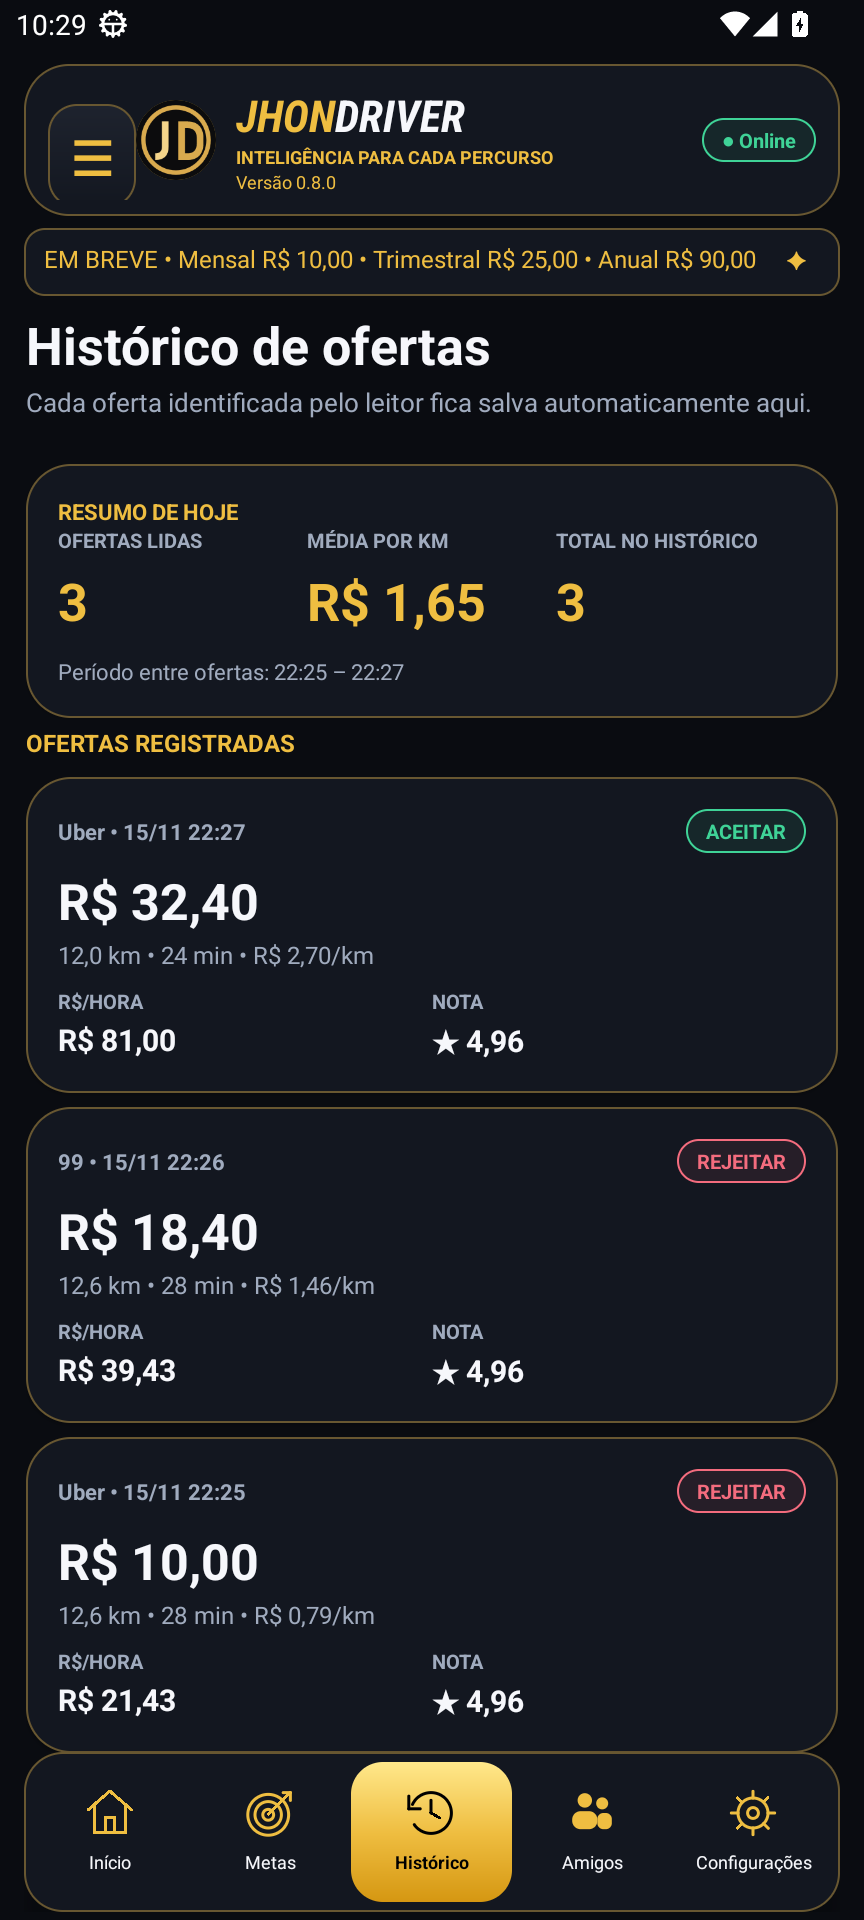
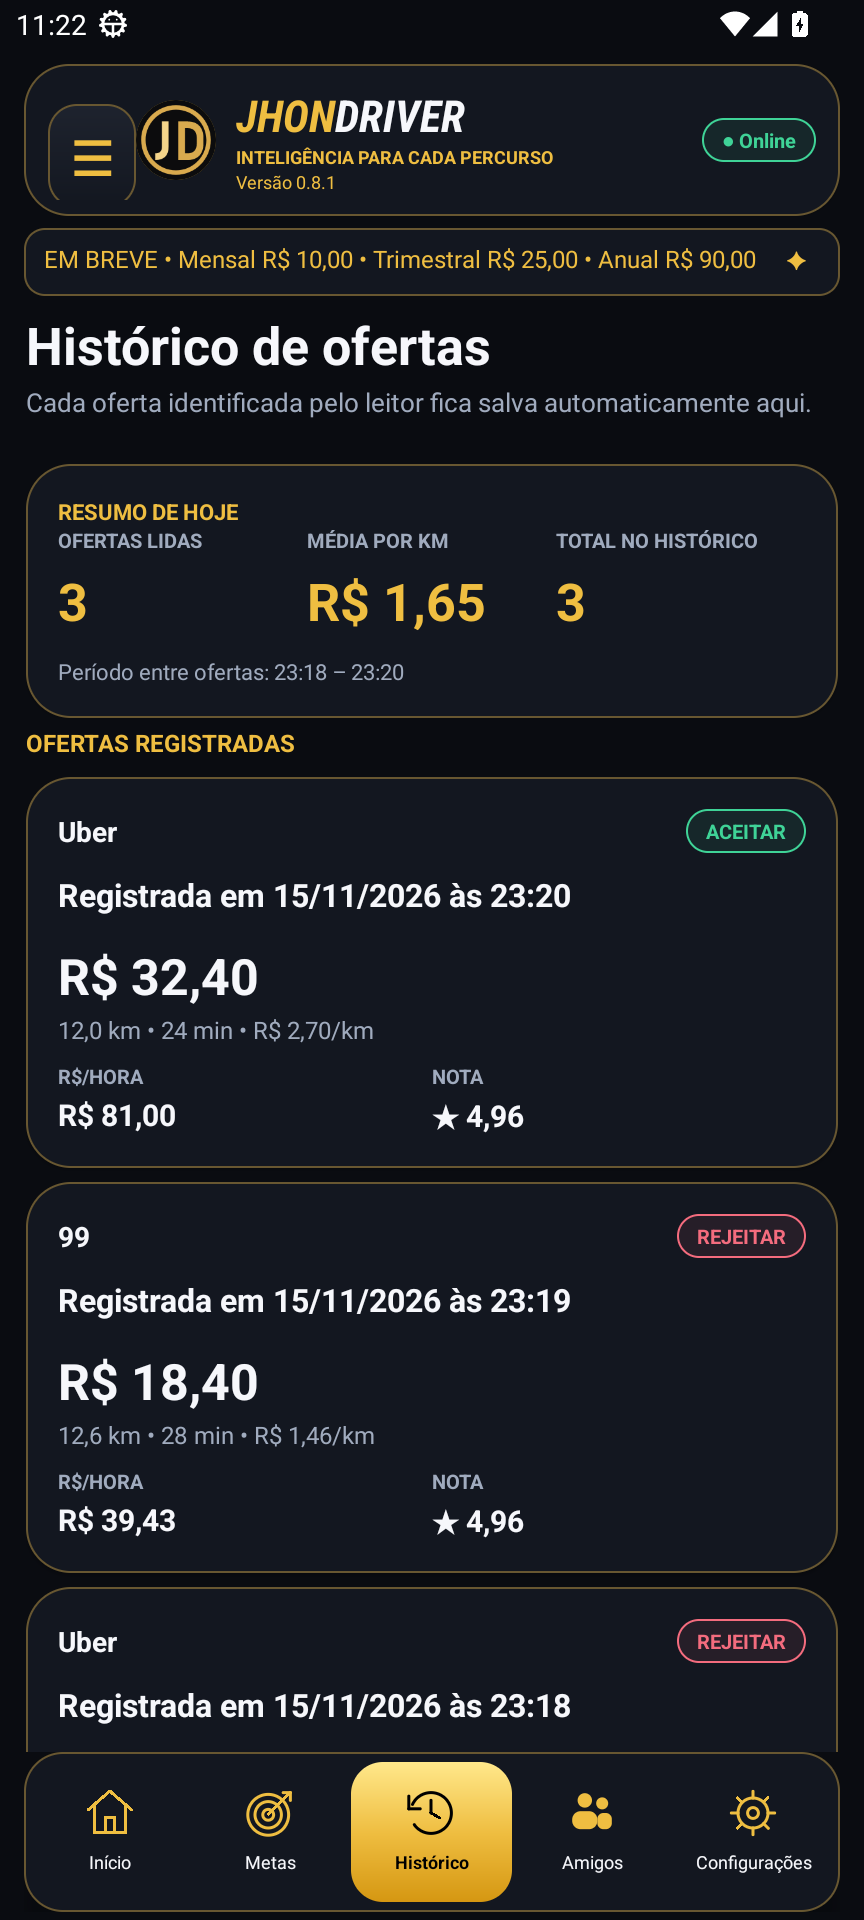
Show released history timestamp layout in the gallery

diff --git a/docs/previews/unified/README.md b/docs/previews/unified/README.md
@@ -24,6 +24,8 @@ O acabamento da tela de Amigos foi estendido ao painel, configurações, histór
 
 ## Histórico de ofertas
 
+Atualizado na versão **0.8.1**: data completa e horário de registro em destaque, incluindo ofertas antigas com horário salvo.
+
 | Claro | Escuro |
 | --- | --- |
 | ![Claro](history-light.png) | ![Escuro](history-dark.png) |
